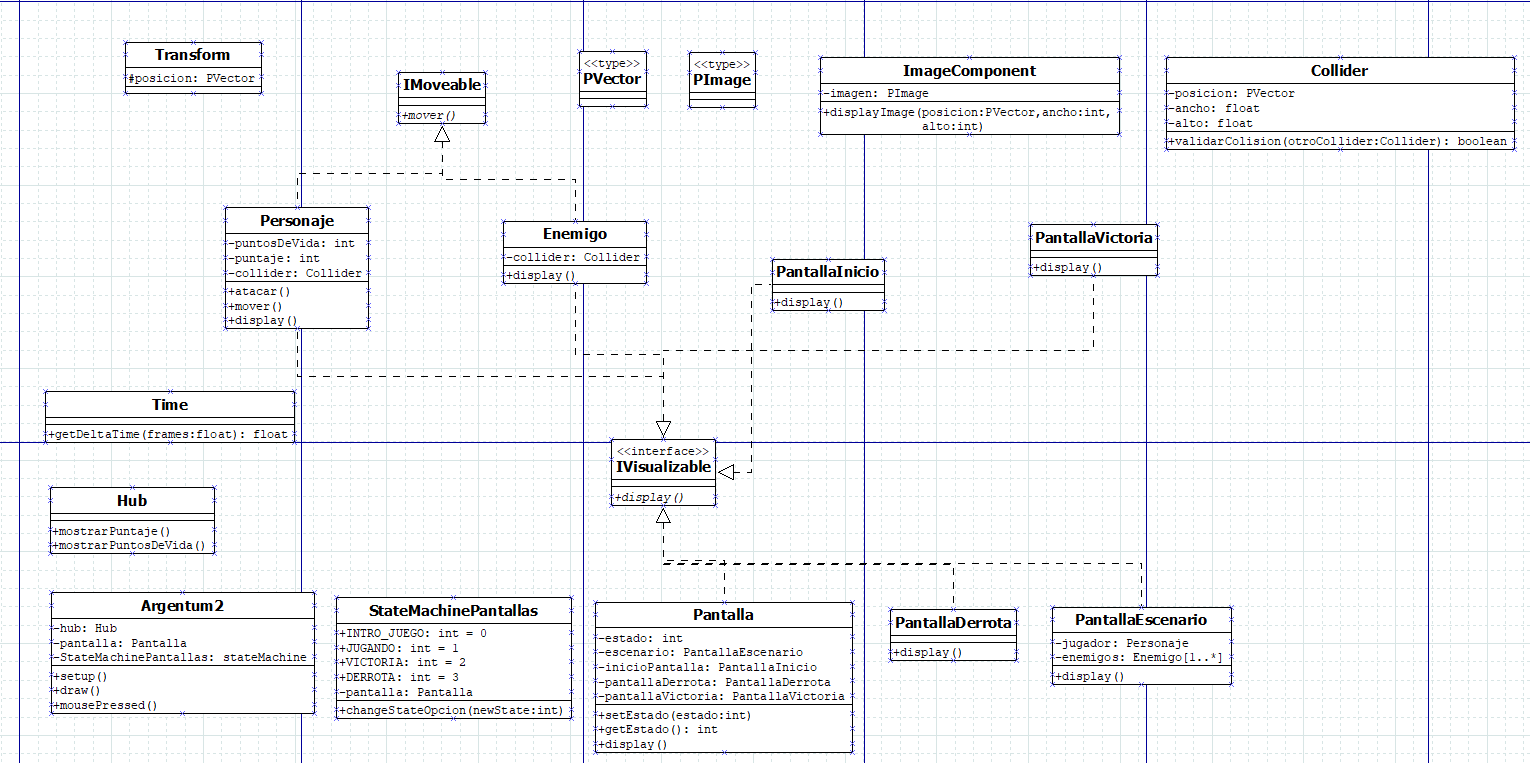
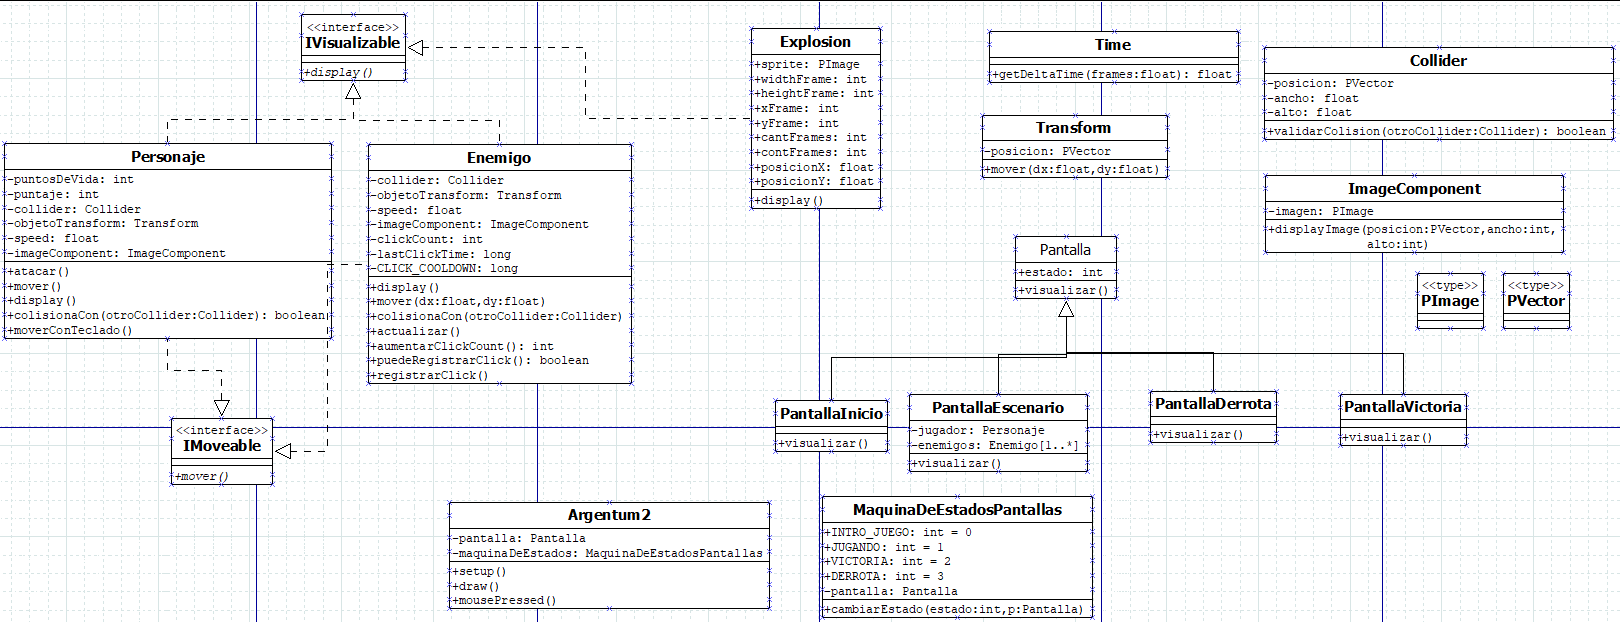
se agrego tiempo de juego, polimorfismo en pantalla

Changed region(s): [[0.0, 0.0, 1.0, 1.0]]

diff --git a/README.md b/README.md
@@ -1,11 +1,15 @@
 
 # TUDIVJ - Fundamentos de programación orientada a objetos
 
-## Trabajo práctico final, grupo: ArrozConLeche
+## Trabajo práctico final. Grupo: ArrozConLeche.
+
 
 ### Diagrama DIA
 ![Screenshot](diagrama-dia.png)
 
+### Trabajo Práctico Final - Requerimientos del entregable final.
+
+![Screenshot](tp-final-3.png)
 
 ### Trabajo Práctico Final - Requerimientos del Segundo entregable
 
